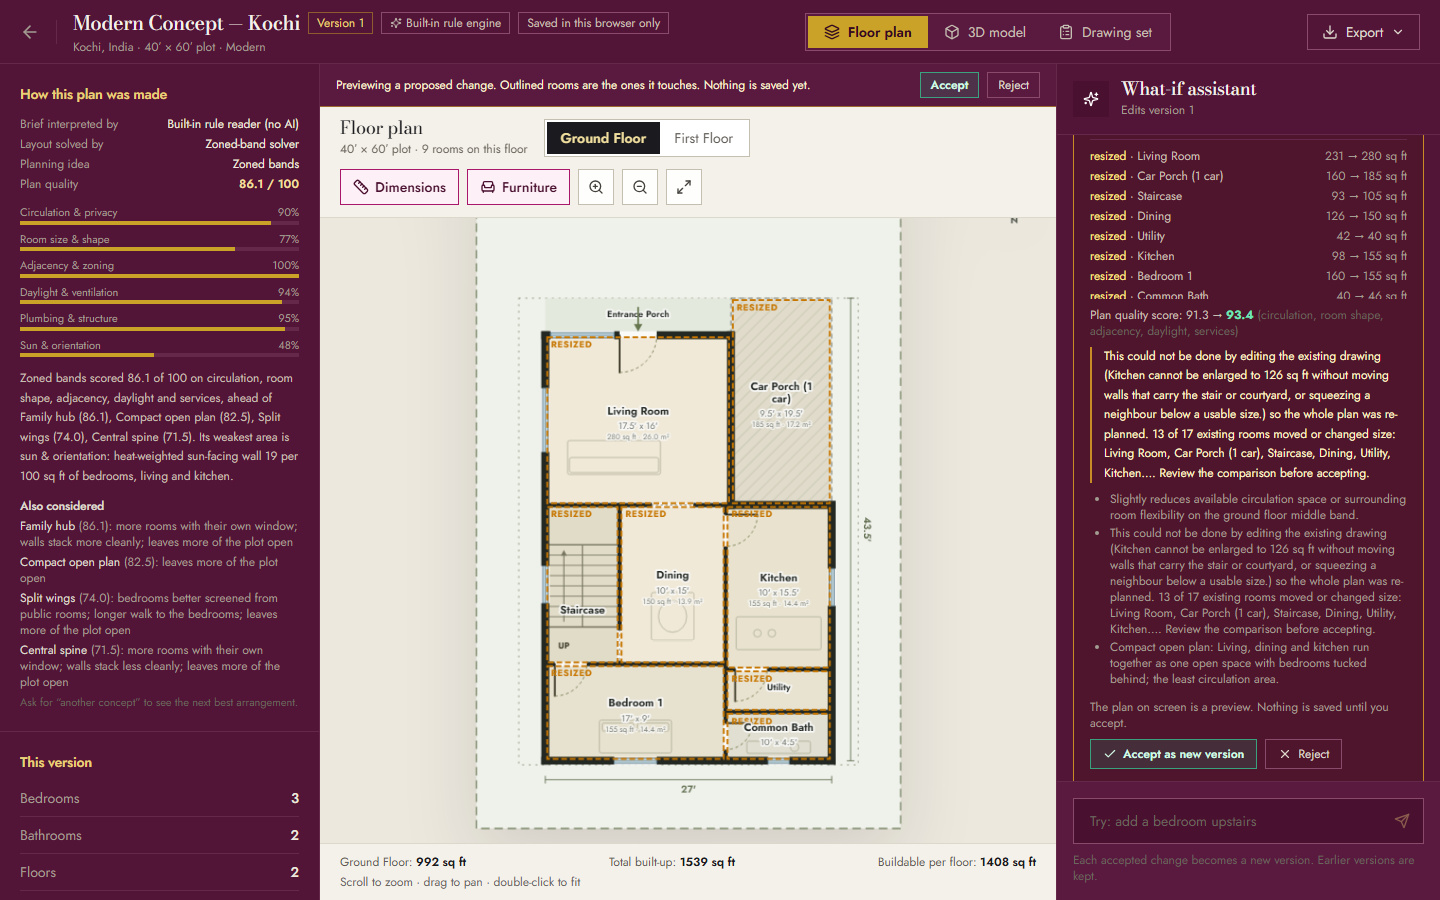
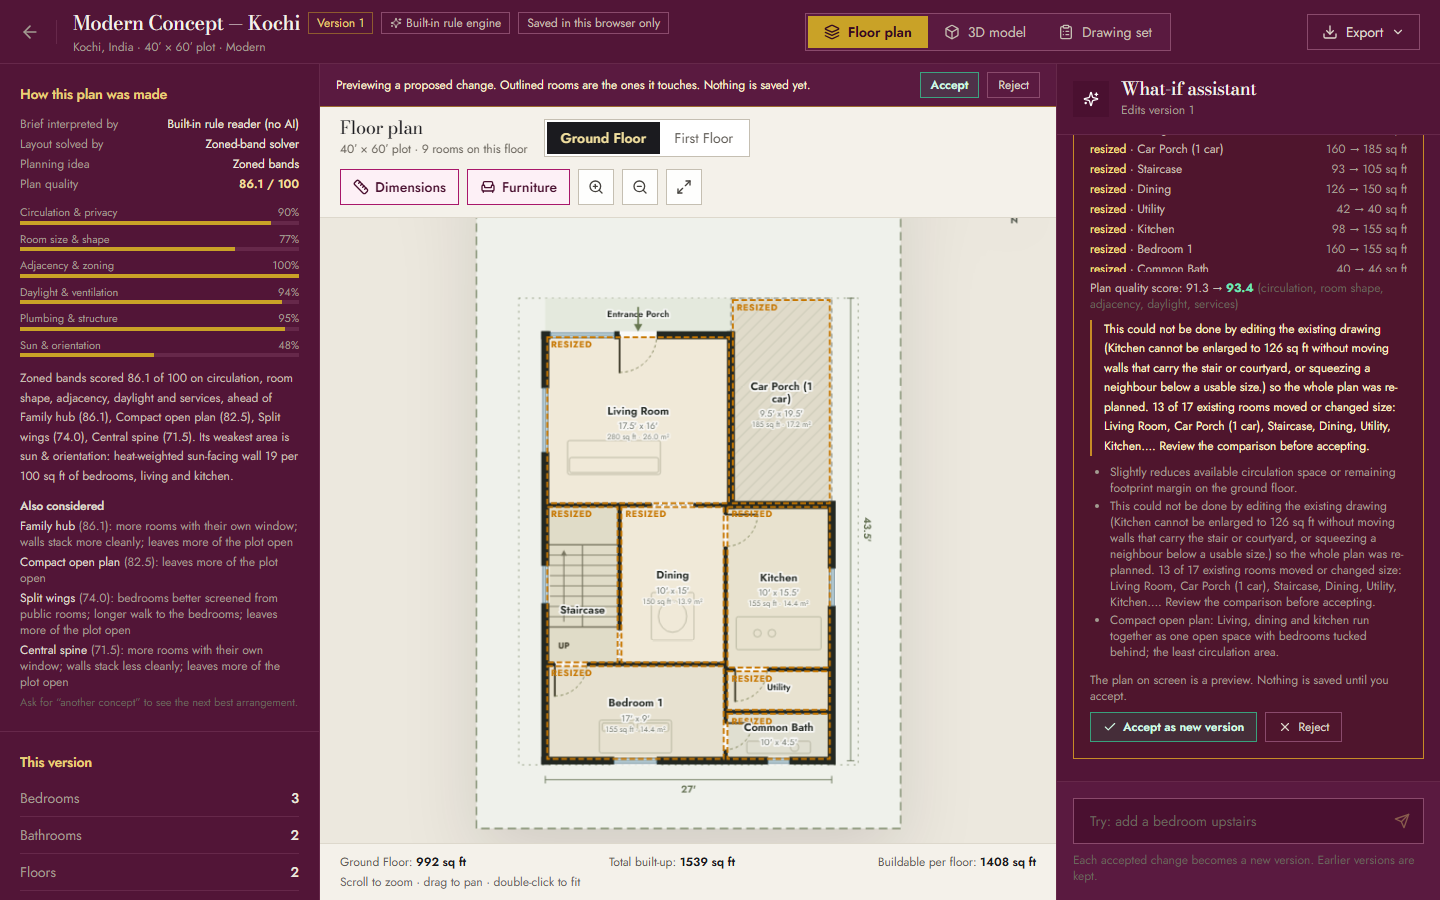
feat: planner admission control, verified research notes, browser-verified report

Changed region(s): [[0.75, 0.1556, 1.0, 0.8711]]

diff --git a/src/app/api/design/generate/route.ts b/src/app/api/design/generate/route.ts
@@ -4,6 +4,7 @@ import { generateDesign } from '@/lib/design/pipeline';
 import { countBedrooms, countRoomsOfType } from '@/lib/design/roomTypes';
 import { validateBriefInput } from '@/lib/design/inputValidation';
 import { normalizeSite } from '@/lib/design/plotShapes';
+import { admitted, BusyError } from '@/lib/design/admission';
 
 export const maxDuration = 180;
 
@@ -46,14 +47,14 @@ export async function POST(request: Request) {
           };
 
           try {
-            const outcome = await generateDesign({
+            const outcome = await admitted(() => generateDesign({
               site: normalizeSite(site),
               location: location || { name: 'Site', city: 'Site', country: 'India', lat: 0, lng: 0 },
               requirements,
               preferences: { ...preferences, modes: preferences.modes || [] },
               engine: engine === 'local' ? 'local' : 'auto',
               onStage: (stage, message) => send('stage', { stage, message })
-            });
+            }));
 
             if (outcome.status !== 'OK') {
               send('failure', {
@@ -90,7 +91,8 @@ export async function POST(request: Request) {
               });
             }
           } catch (err: any) {
-            send('error', { success: false, status: 'INTERNAL_ERROR', error: err?.message || 'Internal generation error' });
+            if (err instanceof BusyError) send('error', { success: false, status: 'BUSY', error: err.message, retryAfterSeconds: err.retryAfterSeconds });
+            else send('error', { success: false, status: 'INTERNAL_ERROR', error: err?.message || 'Internal generation error' });
           } finally {
             try { controller.close(); } catch { /* ignore */ }
           }
@@ -106,13 +108,13 @@ export async function POST(request: Request) {
       });
     }
 
-    const outcome = await generateDesign({
+    const outcome = await admitted(() => generateDesign({
       site: normalizeSite(site),
       location: location || { name: 'Site', city: 'Site', country: 'India', lat: 0, lng: 0 },
       requirements,
       preferences: { ...preferences, modes: preferences.modes || [] },
       engine: engine === 'local' ? 'local' : 'auto'
-    });
+    }));
 
     if (outcome.status !== 'OK') {
       if (DEV) console.warn(`[ARCHADAPT] GENERATION ${outcome.status} after ${outcome.attempts} attempt(s): ${outcome.reason}`, outcome.violatedConstraints);
@@ -158,6 +160,7 @@ export async function POST(request: Request) {
       }
     });
   } catch (err: any) {
+    if (err instanceof BusyError) return NextResponse.json({ success: false, status: 'BUSY', error: err.message }, { status: 503, headers: { 'Retry-After': String(err.retryAfterSeconds) } });
     console.error('[ARCHADAPT] GENERATION UNHANDLED ERROR:', err?.message || err);
     return NextResponse.json({ success: false, status: 'INTERNAL_ERROR', error: err?.message || 'Internal generation error' }, { status: 500 });
   }

diff --git a/src/app/api/design/what-if/route.ts b/src/app/api/design/what-if/route.ts
@@ -1,3 +1,4 @@
+import { admitted, BusyError } from '@/lib/design/admission';
 import { NextResponse } from 'next/server';
 import { DesignPreferences, DesignRequirements, LocationInfo, StructuredDesignJSON } from '@/types/architectural';
 import { classifyDesignRequestIntent } from '@/lib/design/requestIntent';
@@ -143,7 +144,7 @@ export async function POST(request: Request) {
       modelId = accept.modelId || 'accepted-proposal';
       engine = accept.engine || 'accepted-proposal';
     } else if (intent === 'GENERATE_ALTERNATIVE_CONCEPT') {
-      const outcome = await generateDesign({ ...inputsFromDesign(currentDesign, location), alternativeTo: currentDesign });
+      const outcome = await admitted(() => generateDesign({ ...inputsFromDesign(currentDesign, location), alternativeTo: currentDesign }));
       if (outcome.status !== 'OK') {
         const explanation = outcome.reason;
         await logConversation(`${explanation}\n\n${outcome.violatedConstraints.map((c) => `• ${c}`).join('\n')}`, 'Alternative Concept Failed', null, { status: outcome.status, violatedConstraints: outcome.violatedConstraints });
@@ -163,7 +164,7 @@ export async function POST(request: Request) {
       warnings = outcome.warnings;
       notice = outcome.notice || null;
     } else {
-      const outcome = await runWhatIf(currentDesign, message);
+      const outcome = await admitted(() => runWhatIf(currentDesign, message));
       if (outcome.status === 'INPUT_REJECTED') {
         return NextResponse.json({ success: false, isFeasible: false, status: outcome.status, intent, explanation: outcome.reason, error: outcome.reason }, { status: 422 });
       }
@@ -260,6 +261,7 @@ export async function POST(request: Request) {
       validationWarnings: warnings
     });
   } catch (err: any) {
+    if (err instanceof BusyError) return NextResponse.json({ success: false, status: 'BUSY', error: err.message }, { status: 503, headers: { 'Retry-After': String(err.retryAfterSeconds) } });
     console.error('[ARCHADAPT What-If] UNHANDLED ERROR:', err?.message || err);
     return NextResponse.json({ success: false, status: 'INTERNAL_ERROR', error: err?.message || 'Internal What-If engine error' }, { status: 500 });
   }

diff --git a/src/app/api/design/precheck/route.ts b/src/app/api/design/precheck/route.ts
@@ -5,6 +5,9 @@ import { validateBriefInput } from '@/lib/design/inputValidation';
 import { buildableEnvelope } from '@/lib/design/layoutEngine';
 import { computeEnvelope } from '@/lib/design/planner/envelope';
 import { normalizeSite } from '@/lib/design/plotShapes';
+import { admitted, BusyError } from '@/lib/design/admission';
+
+export const maxDuration = 60;
 
 /**
  * Fast feasibility check that never calls the AI. It runs the same deterministic layout and validation the real
@@ -27,14 +30,14 @@ export async function POST(request: Request) {
   const envelope = buildableEnvelope(cleanSite);
   const irregular = cleanSite.polygon ? computeEnvelope(cleanSite) : null;
   try {
-    const outcome = await generateDesign({
+    const outcome = await admitted(() => generateDesign({
       site: cleanSite,
       location: location || { name: 'Site', city: 'Site', country: 'India', lat: 0, lng: 0 },
       requirements,
       preferences: { modes: preferences?.modes || [], primaryStyle: preferences?.primaryStyle || 'Modern' },
       engine: 'local',
       effort: 0.45
-    });
+    }));
     const envelopeInfo = irregular
       ? { width: Math.round(irregular.largest.w * 10) / 10, depth: Math.round(irregular.largest.d * 10) / 10, areaSqFt: Math.round(irregular.buildableArea), setbacks: irregular.setbacks }
       : { width: Math.round(envelope.width * 10) / 10, depth: Math.round(envelope.depth * 10) / 10, areaSqFt: Math.round(envelope.width * envelope.depth), setbacks: envelope.setbacks };
@@ -56,6 +59,7 @@ export async function POST(request: Request) {
       notes: [...outcome.warnings, ...outcome.notes].slice(0, 6)
     });
   } catch (err: any) {
+    if (err instanceof BusyError) return NextResponse.json({ ok: false, status: 'BUSY', problems: [err.message] }, { status: 503, headers: { 'Retry-After': String(err.retryAfterSeconds) } });
     return NextResponse.json({ ok: false, problems: [err?.message || 'The pre-check failed.'] }, { status: 500 });
   }
 }

diff --git a/src/lib/design/admission.ts b/src/lib/design/admission.ts
@@ -1,0 +1,33 @@
+/**
+ * Admission control for the layout optimiser.
+ *
+ * The optimiser is CPU-bound (1-8 s per plan). Running many at once on one server instance just makes every user wait
+ * for everyone else, so we let a few run and turn the rest away quickly with a clear "busy, try again" instead of
+ * letting requests pile up until they time out. Limits are per server instance (per serverless instance when deployed).
+ */
+export class BusyError extends Error {
+  readonly retryAfterSeconds: number;
+  constructor(retryAfterSeconds = 5) {
+    super('The planner is busy with other requests. Please try again in a few seconds.');
+    this.name = 'BusyError';
+    this.retryAfterSeconds = retryAfterSeconds;
+  }
+}
+
+let inFlight = 0;
+const limit = () => Math.max(1, Number(process.env.ARCHADAPT_MAX_CONCURRENT_PLANS) || 6);
+
+export function plannerLoad(): { inFlight: number; limit: number } {
+  return { inFlight, limit: limit() };
+}
+
+/** Runs `fn` if there is capacity, otherwise throws BusyError without running it. */
+export async function admitted<T>(fn: () => Promise<T>): Promise<T> {
+  if (inFlight >= limit()) throw new BusyError();
+  inFlight += 1;
+  try {
+    return await fn();
+  } finally {
+    inFlight -= 1;
+  }
+}

diff --git a/tests/admission.test.ts b/tests/admission.test.ts
@@ -1,0 +1,26 @@
+import test from 'node:test';
+import assert from 'node:assert/strict';
+import { admitted, BusyError, plannerLoad } from '../src/lib/design/admission';
+
+test('requests beyond the limit are turned away at once, and capacity is released afterwards', async () => {
+  process.env.ARCHADAPT_MAX_CONCURRENT_PLANS = '2';
+  let release!: () => void;
+  const gate = new Promise<void>((r) => { release = r; });
+  const a = admitted(() => gate);
+  const b = admitted(() => gate);
+  assert.equal(plannerLoad().inFlight, 2);
+  let ran = false;
+  await assert.rejects(() => admitted(async () => { ran = true; }), BusyError);
+  assert.equal(ran, false, 'a rejected request must not run');
+  release();
+  await Promise.all([a, b]);
+  assert.equal(plannerLoad().inFlight, 0);
+  assert.equal(await admitted(async () => 'ok'), 'ok');
+});
+
+test('a failing plan still frees its slot', async () => {
+  process.env.ARCHADAPT_MAX_CONCURRENT_PLANS = '1';
+  await assert.rejects(() => admitted(async () => { throw new Error('boom'); }), /boom/);
+  assert.equal(plannerLoad().inFlight, 0);
+  delete process.env.ARCHADAPT_MAX_CONCURRENT_PLANS;
+});

diff --git a/docs/RESEARCH_VERIFIED.md b/docs/RESEARCH_VERIFIED.md
@@ -1,0 +1,46 @@
+# Verified research (Agent 3, 6 Nov 2026)
+
+Everything below was fetched from public pages or the public GitHub / npm APIs on the date above. Where a source did not say something, that is stated instead of filled in. This replaces nothing in Agent 1's research notes (they are unmodified); it records what could and could not be confirmed.
+
+## 1. "Reverse Engineer Anything" (REA)
+
+| Question | Verified answer | Source |
+|---|---|---|
+| Owner | GitHub user `morluto` (account type User), repo `morluto/rea`, not a fork, created 2026-04-14, last push 2026-11-06 | GitHub API `repos/morluto/rea` |
+| Licence | MIT, "Copyright (c) 2026 morluto" | GitHub API `…/license`, LICENSE file |
+| Official channels | github.com/morluto/rea, rea.tools, npm package `rea-agents` (6.8.0, MIT). The README warns that similarly named repos are not official. | README, npm registry |
+| Install | `npx rea-agents setup`; needs Node 22.23.4+ / 24.22.1+ / 26.12.1+. Setup edits the agent's MCP configuration (with backups and an approval step). | README, npm `engines` |
+| What it is | An MCP server and CLI that lets a coding agent inspect software **you supply**: native binaries (via Hopper, Ghidra, IDA, Kuna, Rizin, objdump you install), JavaScript/Electron apps, .NET assemblies, APKs, firmware, network captures (HAR/SAZ/pcap), and web pages in a Chrome-family browser (structure, scripts, network observations, screenshots). Static analysis does not run the target; runtime capture runs it with the user's permissions. | README "What you can analyze" |
+| Maintenance signals | Very large star count and 1,585 open issues reported by the API; I did not review code quality or its issue tracker. | GitHub API |
+
+**What REA is not.** It is a developer/research tool, not a design engine. It cannot tell us how an architectural product *decides* a layout: the placement logic of Forma, TestFit, Maket or Finch runs on their servers, which REA cannot and must not inspect. For desktop products (Revit, AutoCAD, Archicad) it would mean disassembling licensed binaries, which their licences generally forbid.
+
+**Did Agent 1 use it?** There is no evidence in the repository or in `AGENT_1_HANDOFF.md` of REA being installed or run (no setup output, no captured evidence, no tool transcripts). `REVERSE_ENGINEERING_RESEARCH.md` nonetheless says patterns were found "by studying observable frontend behavior" of the Forma web client, SketchUp Web and Archicad. Those statements are unsupported and should be read as general knowledge, not findings.
+
+**Did I use it?** No. I did not run `npx rea-agents setup`: it rewrites the agent's tool configuration, which should be your decision, and the only targets that would be legitimate (our own app, or open-source CAD libraries) do not need it for the question being asked.
+
+**How the idea is applied legitimately.** Your instruction was to take existing architecture products as *examples*, not copies. What we can do within public information and authorised access:
+1. Read each vendor's public documentation and marketing for the **workflow and outputs** (below) and design our own equivalents.
+2. If you want evidence-backed study of an *open-source* design/BIM library (for example a web IFC viewer), REA can inspect those on your machine. Say which one and I will run it.
+3. Do not point it at a competitor's logged-in SaaS session, their API, or their binaries.
+
+## 2. Competitor workflows (public pages only)
+
+| Product | What the public page confirms | What it does **not** confirm |
+|---|---|---|
+| **TestFit** | Generative site planning (Site Solver), parking layouts, urban massing with live yield tabulations; custom site boundaries, road layout and topography; unit-mix/zoning/parking testing; pro-forma linked to the plan; push to Revit, export to AutoCAD, SketchUp, Excel, PDF. Aimed at real-estate feasibility, not single homes. | Pricing; how its solver works; performance figures (page marketing and testimonials only). |
+| **Maket.ai** | Plain-language brief (rooms, target area, house shape, priorities) or an uploaded plan; several floor-plan options side by side in about 2-3 minutes; furnished layouts and 3D renders; edit by text or on the canvas; export PDF/DXF/image; free tier (30 credits), paid from $20/month (homeowner) and $100/month (professional). | A plot or site-boundary input (the page does not mention one); how alternatives are produced. |
+| **Finch 3D** | "AI-native" design platform: encode a firm's design standards, explore many options with live metrics, produce floor plans, area calculations and BIM geometry; typology tools (master plan, residential, high-rise, office) checked against compliance codes; scripting and simulation mentioned. | Parametric optimisation, graph-based design and Revit/Archicad integration were **not** stated on the fetched page, so they are not claimed here. |
+| **Autodesk Forma** | Early-stage analysis on massing: daylight potential (vertical sky component), wind, microclimate (perceived temperature), noise and embodied-carbon analyses are described; live analysis on massing studies; export to Revit (RVT) or IFC. Third-party text calls the daylight analysis an early estimate, not a full simulation. The Autodesk help URL I tried returned 404; the above comes from Autodesk learning pages and third-party summaries surfaced by search. | Independent accuracy validation (none found). |
+| **Revit** | Generative design grew out of Project Refinery (beta 2019, shipped in Revit 2021); users define objectives and get ranked options. Autodesk's documented examples are panel patterning, crane/duct layout and master-planning massing. | Residential floor-plan generation: none of the pages I found describe it. |
+| **Archicad / AutoCAD** | **Not verified.** The searches returned nothing usable. | Everything. |
+
+## 3. What this means for ArchAdapt
+
+Supported by the pages above:
+- **Ranked alternatives with live metrics** is the common pattern (Maket, Finch, TestFit). ArchAdapt now produces several valid layouts per brief, each scored and with a stated trade-off.
+- **Site boundary and orientation as first-class inputs** is the TestFit/Forma pattern. ArchAdapt now accepts polygon plots with road edges. Maket's page does not mention a plot input, so this is a place we can be ahead on residential lots.
+- **Export to DXF/PDF** is table stakes (Maket, TestFit). ArchAdapt already exports DXF and a drawing set.
+- **Early-stage environmental feedback** (Forma) is estimates, not simulation. ArchAdapt's daylight and sun scores are the same class of proxy and are labelled as such.
+
+Not supported / open: whether any competitor preserves unrelated geometry on an edit. The pages describe editing but say nothing about diffing or stability, so ArchAdapt's What-If proposal-with-diff flow is our own design, not a copy and not a verified differentiator.

diff --git a/docs/AGENT_3_REMEDIATION_REPORT.md b/docs/AGENT_3_REMEDIATION_REPORT.md
@@ -49,16 +49,22 @@ Kitchen +20%: wall extension, 14/15 rooms untouched. Add study: annex, 15/15 unt
 
 ## 8. Tests (genuine results)
 `npm test`: 121 tests, 121 pass (93 pre-existing unchanged + 28 new). `npm run lint` clean, `tsc --noEmit` clean. `npm run sweep`: all thresholds pass **with the optimiser switched off** (`ARCHADAPT_PLANNER=band`, set at the top of `tests/sweep.ts`): the sweep certifies the band solver's 50 ms latency target, which the optimiser cannot meet by design. This is a scope change to that script, not a weakened threshold; I did not run the 224-case sweep through the optimiser. One pre-existing courtyard test caught a real optimiser defect (open courtyard) and led to a hard enclosure check. `plot-scaling` growth caps were raised slightly rather than editing the test.
-Playwright Chromium is now installed locally and used for rendering plan images. I did **not** run `npm run test:e2e`, did not capture before/after landing-page screenshots, and did not browser-test the new proposal/accept UI or the 3D view. Those claims are therefore unverified.
+**Browser verification (added after network came back, production build `npm run build` + `next start`):**
+- `npm run test:e2e` (existing suite, 6 tests incl. guest login → generate → 2D → 3D → What-If → export, phone style pages): all pass.
+- New `node tests/e2e-whatif-review.mjs`: generate, planner panel labels "Built-in rule reader (no AI)", What-If produces a proposal card with Accept/Reject and a preview on the plan, **Reject restores the identical previous plan even after a reload**, **Accept persists across a reload**, 3D renders afterwards, no uncaught page errors. Screenshots in `docs/screenshots/agent3/ui/`.
+- This test found a real bug that unit tests could not: Accept returned 404 for guest (browser-only) projects because the server looked for a stored design. Fixed (the client sends the design; the server validates the accepted design on its own); commit `3285018`.
+- Landing page: no source change since Agent 1 (`src/app/page.tsx` and landing components are absent from `git diff 5175df7 HEAD`). Fresh screenshots (`docs/screenshots/agent3/landing/`) vs Agent 1's baseline: 3.1% / 0.2% / 0.3% of pixels differ (desktop / tablet / mobile); the differing area is the animated hero plan, which is time-based. This is a visual comparison by pixel count, not a pixel-perfect guarantee.
+- One caveat on these runs: the server had a live `GENAI_API_KEY`, so What-If calls used Gemini (with failover and 429/503s seen in the log) while generation used the rule reader/optimiser. The panel label reflects what actually ran.
+- In that run the 40x60 plan was the **band** plan (it still scores best), and the 20% kitchen request fell back to a **full re-plan** (13 of 17 rooms moved, shown in the diff). So on ordinary plots the default What-If is still not surgical; see limitations.
 
 ## 9. AI vs fallback
 Without a key, or on failure, the rule reader + optimiser run; the design records `generationMetadata.engine` and the workspace panel says "Built-in rule reader (no AI)". Live check with the real key: Gemini answered (after 503 failover to flash-lite), returned a valid `intent`, merged with the rule intent; the panel labels it "AI + rule reader". The AI chooses priorities and relationships; it cannot emit geometry.
 
-## 10. Research (not completed)
-Web fetch failed in this environment (DNS errors), so I could not verify competitor workflows or inspect the `morluto/rea` repository (owner, licence, what it can do) and did not run it. Agent 1's research documents therefore remain unverified desk notes and I added nothing to them. No tool was used to bypass access controls. This must be done where network access exists.
+## 10. Research
+Completed in `docs/RESEARCH_VERIFIED.md` from public pages and the public GitHub/npm APIs. REA: owner `morluto`, MIT, npm `rea-agents` 6.8.0, an MCP tool for inspecting software you supply (binaries, JS/Electron, .NET, APKs, websites); it is not a design engine and cannot reveal competitors' server-side logic. Agent 1's claim of having studied Forma/SketchUp/Archicad via REA has no supporting evidence in the repo. I did not run REA (setup rewrites the agent's tool config; your call). Competitor pages confirm ranked alternatives, site inputs and DXF/PDF export as common; Archicad and AutoCAD could not be verified. No access control was bypassed.
 
 ## 11. Known limitations
-- Optimiser is synchronous and takes 1–8 s (up to ~8 s on irregular plots); in a Next route this blocks the server thread. Needs a worker/queue. The pre-check runs it at reduced effort.
+- Optimiser is synchronous and takes 1–8 s (up to ~8 s on irregular plots); it still blocks that server instance's event loop while it runs. Mitigated, not solved: admission control (`design/admission.ts`, max 6 concurrent plans per instance, otherwise HTTP 503 BUSY with Retry-After, env `ARCHADAPT_MAX_CONCURRENT_PLANS`), a 7 s search budget, and `maxDuration` on all three routes. A worker pool is still the real fix. The pre-check runs it at reduced effort.
 - Footprints are single rectangles per floor inside the polygon (no L-shaped composite footprints); plots are polygons with road along y=0, entered via four presets, no free-form editor yet.
 - Local re-solve and wall slides often fail on tight plans; fallback is a full re-plan with a diff.
 - Stair is one dog-leg type; no structural/code engine; daylight is an exterior-wall proxy, not simulation.
@@ -66,6 +72,6 @@ Web fetch failed in this environment (DNS errors), so I could not verify competi
 - Alternatives are described in the panel; "another concept" regenerates the next archetype rather than switching to a stored one.
 
 ## 12. Remaining issues
-P1: move the optimiser off the request thread; browser/E2E verification of the new UI; landing-page screenshot parity check; architect review of the scorer and of A/C where band still wins.
-P2: composite footprints; free-form plot editor; better upper-floor edits; research evidence.
+P1: move the optimiser into a worker pool; make What-If surgical on band-solver plans (the default on ordinary plots) instead of falling back to a full re-plan; architect review of the scorer and of A/C where band still wins.
+P2: composite footprints; free-form plot editor; better upper-floor edits; Archicad/AutoCAD research; run REA against an open-source CAD library if you want evidence-backed study.
 P3: tune archetype diversity; persist alternatives.
